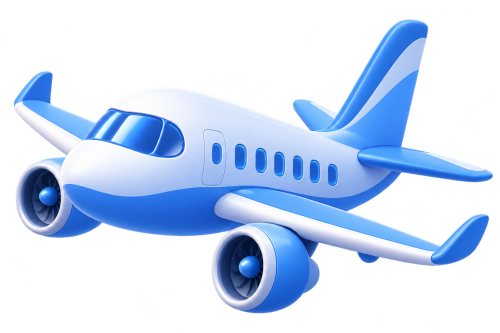
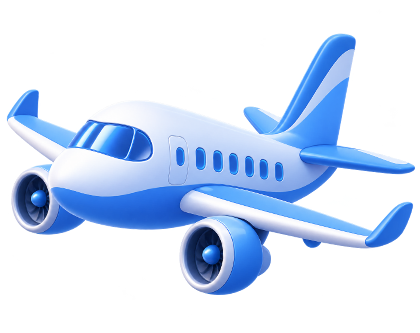
minor ui fix

diff --git a/pages/extracurricular/report/[reportId].tsx b/pages/extracurricular/report/[reportId].tsx
@@ -69,10 +69,10 @@ const ReportDetailPage: React.FC = () => {
 
         <HeaderCard>
           <MetaRow>
-            <MetaTag>{report.period}</MetaTag>
-            <MetaTag>{report.major}</MetaTag>
-            <MetaTag>{report.grade}</MetaTag>
-            <MetaTag>작성자: {report.author}</MetaTag>
+            {report.period && <MetaTag>{report.period}</MetaTag>}
+            {report.major && <MetaTag>{report.major}</MetaTag>}
+            {report.grade && <MetaTag>{report.grade}</MetaTag>}
+            {report.author && <MetaTag>작성자: {report.author}</MetaTag>}
           </MetaRow>
 
           <ReportTitle>{report.title}</ReportTitle>
